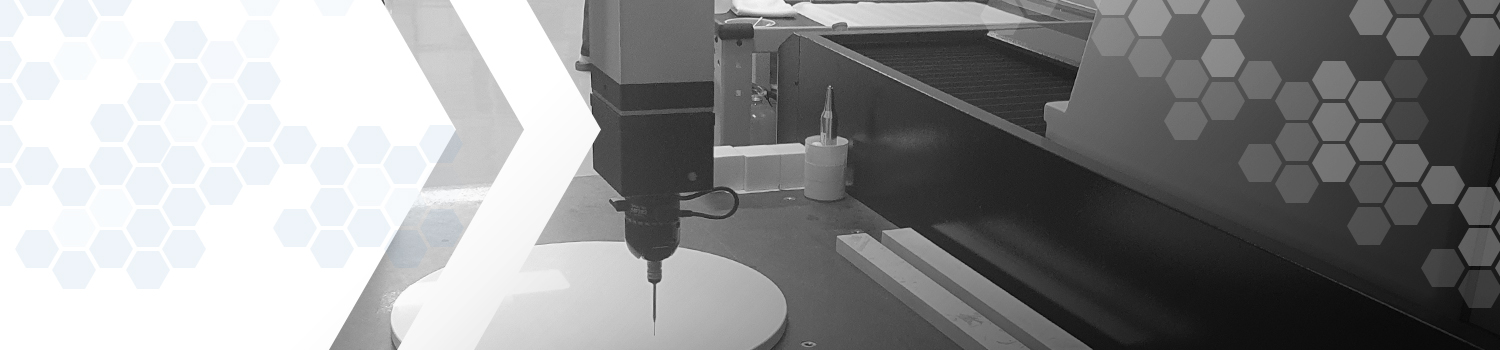
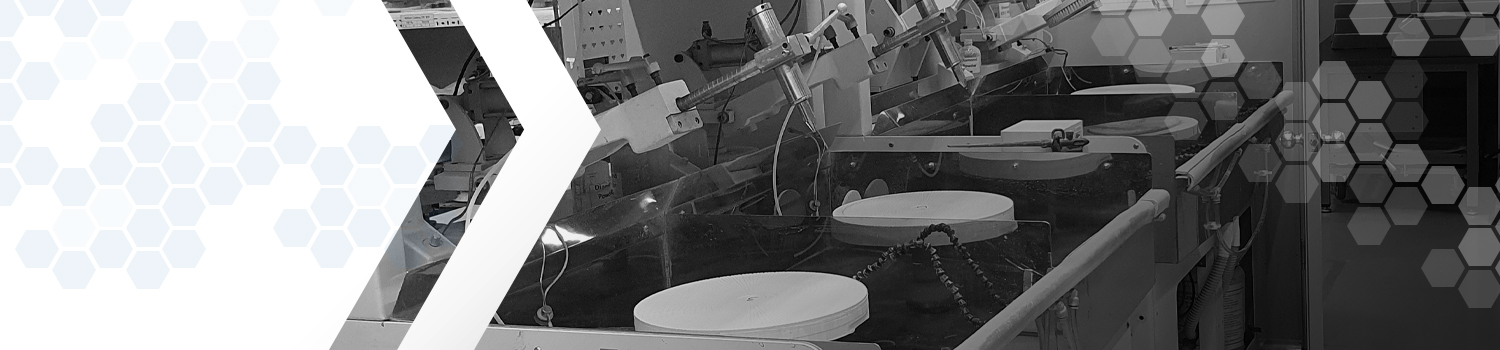
ssl 적용

diff --git a/src/main/resources/static/css/history.css b/src/main/resources/static/css/history.css
@@ -20,7 +20,7 @@ a {
 
 #history h2 {
 	text-align: center;
-	font-size: 24px;
+	font-size: 40px;
 	color: #444;
 	line-height: 1;
 	margin-top: 30px;
@@ -89,7 +89,7 @@ a {
 	width: 10%;
 	display: table-cell;
 	vertical-align: middle;
-	font-size: 14px;
+	font-size: 20px;
 	color: #444;
 	font-weight: bold;
 	text-align: left;
@@ -99,7 +99,7 @@ a {
 	width: 90px;
 	display: table-cell;
 	vertical-align: middle;
-	font-size: 13px;
+	font-size: 20px;
 	color: #444;
 	text-align: left;
 }
@@ -168,7 +168,7 @@ a {
 	width: 10%;
 	display: table-cell;
 	vertical-align: middle;
-	font-size: 14px;
+	font-size: 20px;
 	color: #444;
 	font-weight: bold;
 	text-align: right;
@@ -178,7 +178,7 @@ a {
 	width: 90px;
 	display: table-cell;
 	vertical-align: middle;
-	font-size: 13px;
+	font-size: 20px;
 	color: #444;
 	text-align: right;
 }
@@ -187,17 +187,17 @@ a {
 /* 태블릿 화면 */
 @media screen and (max-width: 880px) {
     .list_right dl dt {
-		font-size: 12px;
+		font-size: 15px;
 	}
 	
 	.list_right dl dd {
-		font-size: 11px;
+		font-size: 14px;
 	}
     .list_left dl dt {
-		font-size: 12px;
+		font-size: 15px;
 	}
 	
 	.list_left dl dd {
-		font-size: 11px;
+		font-size: 14px;
 	}
 }

diff --git a/src/main/resources/static/css/layout.css b/src/main/resources/static/css/layout.css
@@ -528,7 +528,7 @@ img {
 }
 
 .title {
-	font-size: 35px;
+	font-size: 34px;
 }
 
 .body-text {
@@ -628,7 +628,7 @@ select {
 .align-center-table {
   width: 100%;
   border-collapse: collapse;
-  margin-top: 20px;
+  margin-top: 16px;
   
 }
 
@@ -636,7 +636,7 @@ select {
 	border: 1px solid #ddd;
 	padding: 8px;
 	text-align: left;
-	font-size: 14px;
+	font-size: 16px;
 	font-weight: bolder;
 	text-align: center;
 }
@@ -645,7 +645,7 @@ select {
 	border: 1px solid #ddd;
 	padding: 8px;
 	text-align: left;
-	font-size: 14px;
+	font-size: 16px;
 	font-weight: normal;
 	text-align: center;
 }
@@ -664,14 +664,14 @@ select {
 .default-table {
   width: 100%;
   border-collapse: collapse;
-  margin-top: 20px;
+  margin-top: 16px !important;
 }
 
 .default-table th {
 	border: 1px solid #ddd;
 	padding: 8px;
 	text-align: left;
-	font-size: 14px;
+	font-size: 16px;
 	font-weight: bolder;
 }
 
@@ -679,7 +679,7 @@ select {
 	border: 1px solid #ddd;
 	padding: 8px;
 	text-align: left;
-	font-size: 14px;
+	font-size: 16px;
 	font-weight: normal;
 }
 .default-table th {

diff --git a/src/main/resources/templates/fragments/main-banner-eng.html b/src/main/resources/templates/fragments/main-banner-eng.html
@@ -23,15 +23,15 @@
 				<div id="itams-container">
 					<div id="itams-left">
 						<a href="/company-eng.do"><img th:src="@{/img/company.png}" alt="itams"></a>
-						<div class="itams-text">Company Information</div>
+						<a href="/company-eng.do"><div class="itams-text">Company Information</div></a>
 					</div>
 					<div id="itams">
 						<a href="/business-eng.do"><img th:src="@{/img/business.png}" alt="itams"></a>
-						<div class="itams-text">Business Introduction</div>
+						<a href="/business-eng.do"><div class="itams-text">Business Introduction</div></a>
 					</div>
 					<div id="itams-right">
 						<a href="/contact-eng.do"><img th:src="@{/img/contact.png}" alt="itams"></a>
-						<div class="itams-text">Customer Support</div>
+						<a href="/contact-eng.do"><div class="itams-text">Customer Support</div></a>
 					</div>
 				</div>
 		    </div>

diff --git a/src/main/resources/templates/fragments/main-banner-kor.html b/src/main/resources/templates/fragments/main-banner-kor.html
@@ -23,15 +23,15 @@
 				<div id="itams-container">
 					<div id="itams-left">
 						<a href="/company-kor.do"><img th:src="@{/img/company.png}" alt="itams"></a>
-						<div class="itams-text">기업정보</div>
+						<a href="/company-kor.do"><div class="itams-text">기업정보</div></a>
 					</div>
 					<div id="itams">
 						<a href="/business-kor.do"><img th:src="@{/img/business.png}" alt="itams"></a>
-						<div class="itams-text">사업소개</div>
+						<a href="/business-kor.do"><div class="itams-text">사업소개</div></a>
 					</div>
 					<div id="itams-right">
 						<a href="/contact-kor.do"><img th:src="@{/img/contact.png}" alt="itams"></a>
-						<div class="itams-text">고객지원</div>
+						<a href="/contact-kor.do"><div class="itams-text">고객지원</div></a>
 					</div>
 				</div>
 		    </div>

diff --git a/src/main/resources/templates/fragments/footer-eng.html b/src/main/resources/templates/fragments/footer-eng.html
@@ -9,7 +9,7 @@
 				<img th:src="@{/img/DTENG_LOGO(1500px).png}" alt="logo">
 			</div>-->
 			<div id="bottomm-text">
-				<p>DT ENG INC.	|	CEO:  KWANG RO, GO	|	ADDRESS: (18487) 814, Dongbu-daero, Hwaseong-si, Gyeonggi-do, Republic of Korea	|	TEL: 031-768-8847	|	FAX: 031-8058-0422</p>
+				<p>DT ENG INC.	|	CEO:  KWANG RO, GO	|	ADDRESS: (18487) 814, Dongbu-daero, Hwaseong-si, Gyeonggi-do, Republic of Korea	|	TEL: 031-8058-0411	|	FAX: 031-8058-0422</p>
 				<p>COPYRIGHT BY DTENG. ALL RIGHTS RESERVED.</p>
 			</div>
 		</div>

diff --git a/src/main/resources/templates/fragments/footer-kor.html b/src/main/resources/templates/fragments/footer-kor.html
@@ -9,7 +9,7 @@
 				<img th:src="@{/img/DTENG_LOGO(1500px).png}" alt="logo">
 			</div>-->
 			<div id="bottomm-text">
-				<p>㈜동탄이엔지	|	대표명:  고광노	|	주소: (18487) 경기 화성시 동부대로 814	|	TEL: 031-768-8847	|	FAX: 031-8058-0422</p>
+				<p>㈜동탄이엔지	|	대표명:  고광노	|	주소: (18487) 경기 화성시 동부대로 814	|	TEL: 031-8058-0411	|	FAX: 031-8058-0422</p>
 				<p>COPYRIGHT BY DTENG. ALL RIGHTS RESERVED.</p>
 			</div>
 		</div>
